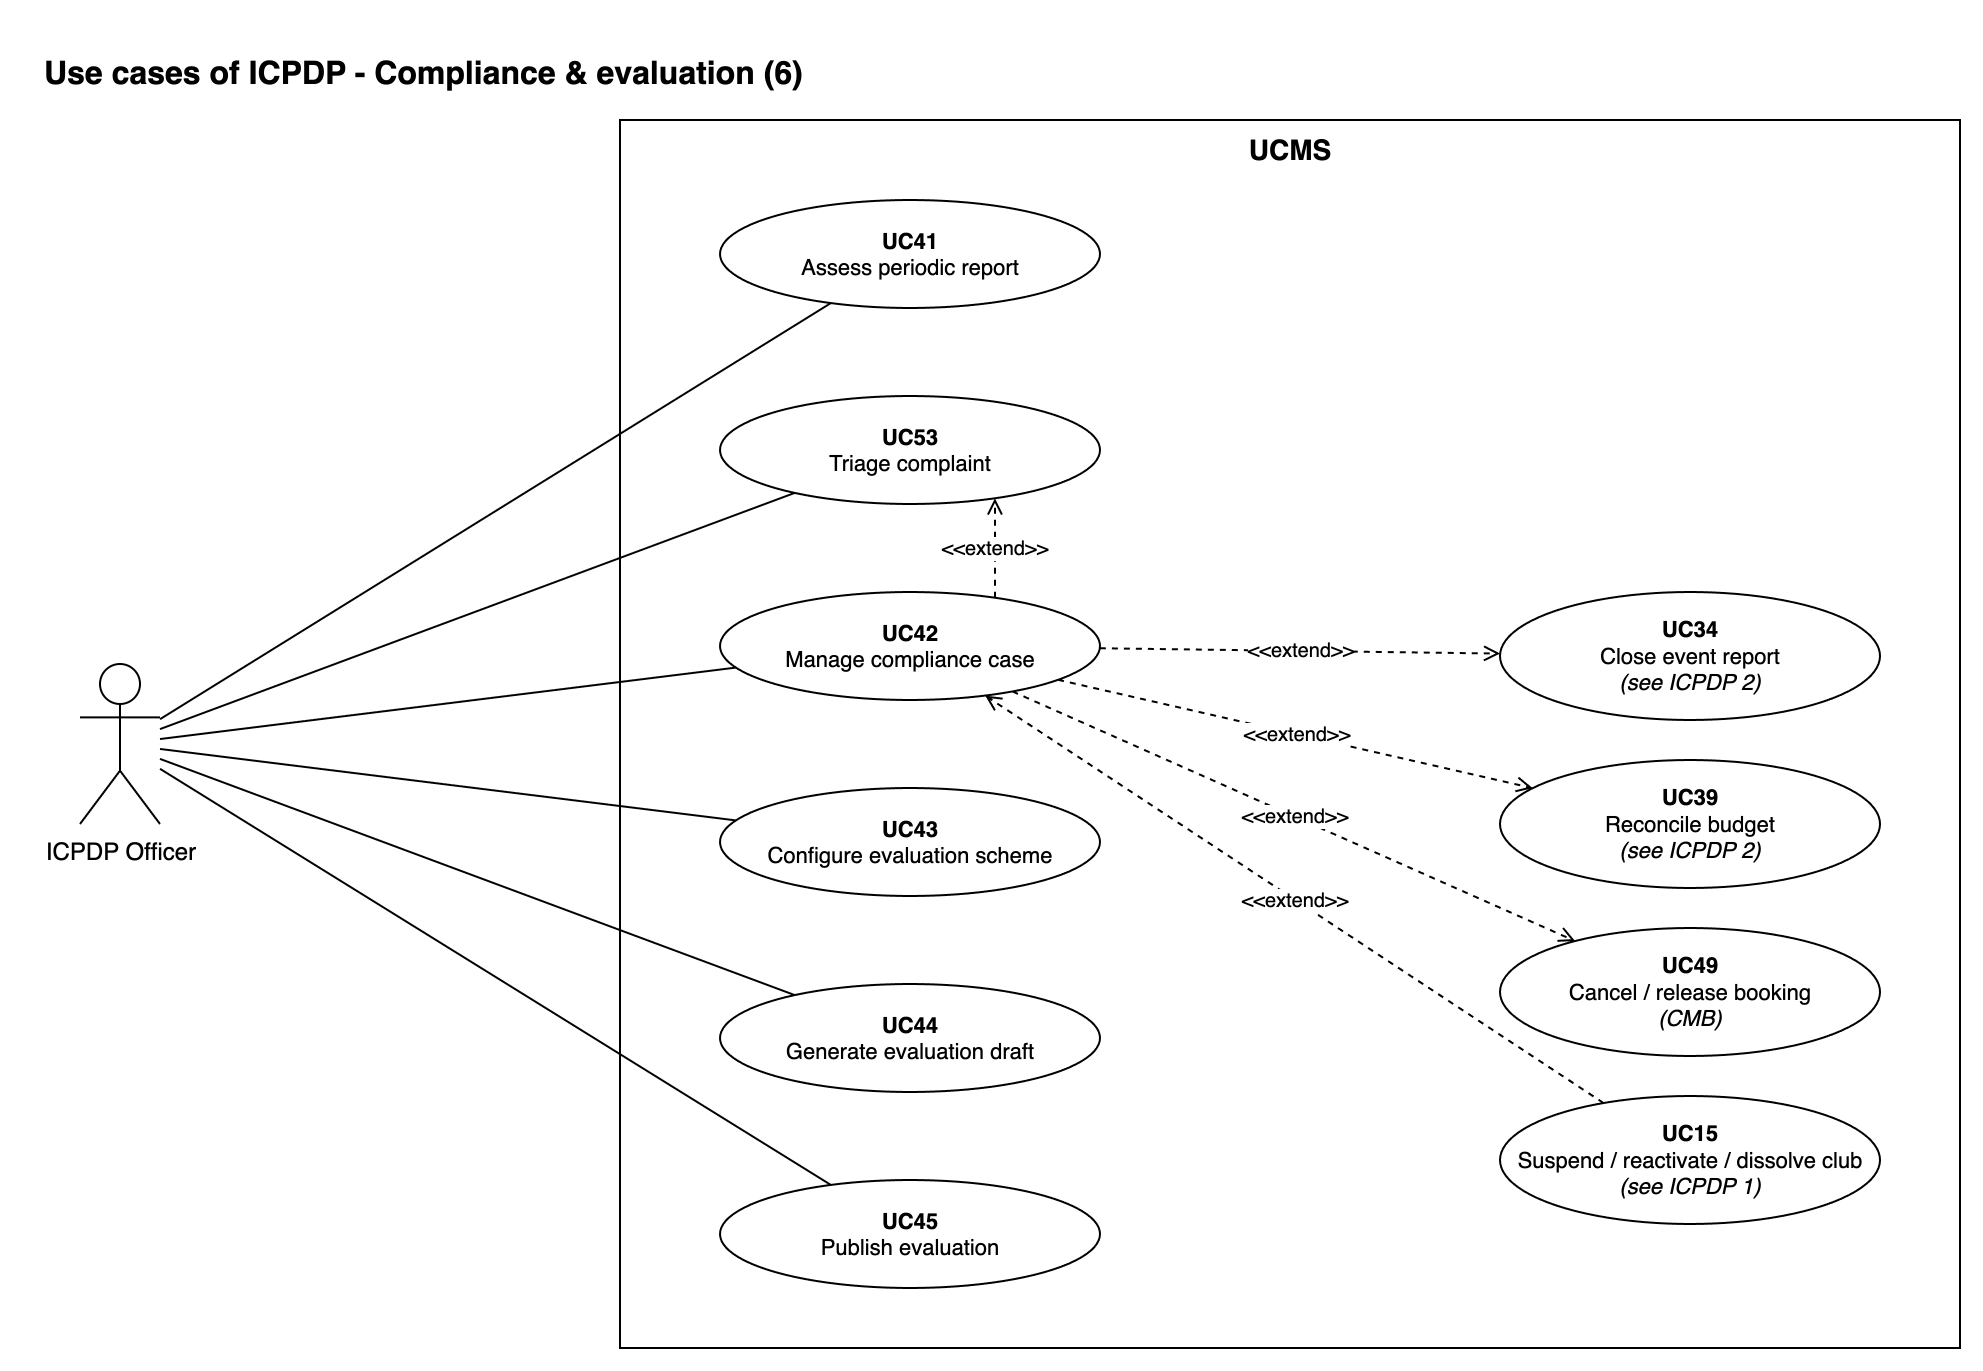
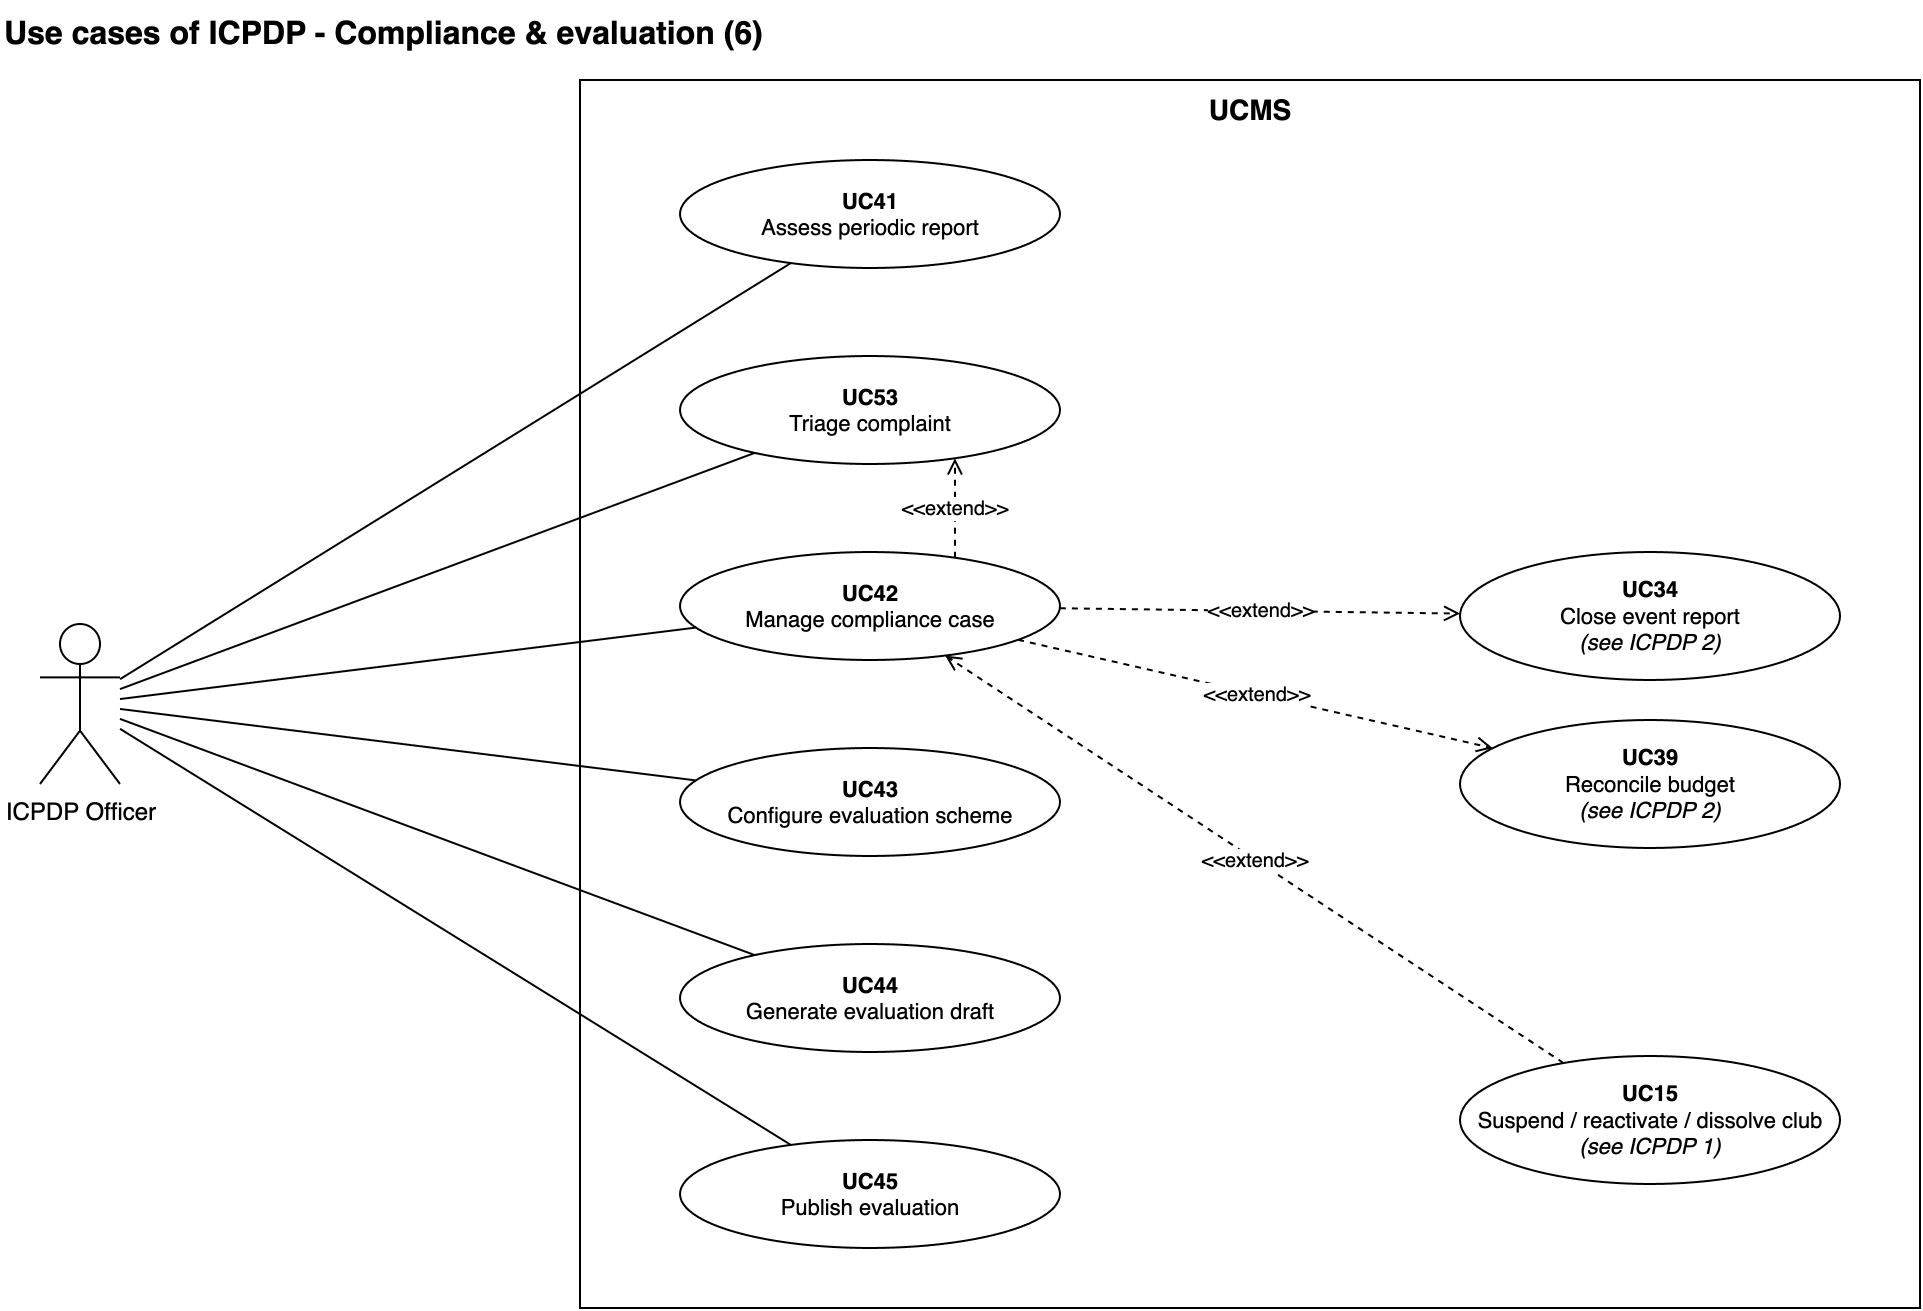
docs(diagrams): drop «extend» used for UI navigation and system cascades (I27, I28)
- Student page: remove the six «extend» edges into UC06 and UC24; they
  modelled screen navigation, not behaviour inserted at an extension point.
- CMB 3, ICPDP 1, ICPDP 3: remove UC28/UC49 «extend» UC15 and UC42
  «extend» UC49 with their borrowed nodes; these are system cascades and
  asynchronous signals, now stated in the UC15 postconditions.
- Spec UC24 step 3 marks the links as navigation only.
- Review tracker: add I27 and I28, mark the I09 and I12 fixes as reverted.

diff --git a/docs/UCMS_Review_Issues.md b/docs/UCMS_Review_Issues.md
@@ -34,10 +34,10 @@ Ngày review: 2026-09-23.
 | I06 | 🔴 | Trạng thái sau khi resubmit không khớp precondition của UC duyệt | Spec UC07/08, UC25/26, UC35/36, UC47/48; Model §10 | Đã sửa | Nộp lại tạo phiên bản mới và quay về trạng thái chờ duyệt (`Submitted` / `Pending Approval` / `Requested`) |
 | I07 | 🔴 | Spec dùng các trạng thái không có trong lifecycle | Spec UC08, UC17, UC26, UC36, UC39, UC52; Model §10 | Đã sửa | Thêm `Withdrawn`, `Expired`, `Exception` vào Model §10; "closed" trong Spec đổi thành `Cancelled`; cập nhật state diagram |
 | I08 | 🔴 | BR40 (số người phản hồi tối thiểu) có trong UC04 của Spec, không có trong Model | Spec UC04, Model UC04 | Đã sửa | Thêm BR40 vào Model UC04 cho khớp Spec; D3 chỉ còn là giá trị mặc định |
-| I09 | 🟡 | `UC15 «include» UC28/UC49` sai: chỉ xảy ra có điều kiện, lại khác actor | UCD ICPDP 1, CMB 3 | Đã sửa | Đổi thành `UC28 «extend» UC15` và `UC49 «extend» UC15` |
+| I09 | 🟡 | `UC15 «include» UC28/UC49` sai: chỉ xảy ra có điều kiện, lại khác actor | UCD ICPDP 1, CMB 3 | Đã sửa | ~~Đổi thành `UC28 «extend» UC15` và `UC49 «extend» UC15`~~ (huỷ ở I28: bỏ hẳn cạnh) |
 | I10 | 🟡 | `UC30 «extend» UC29` sai: waitlist đã nằm trong UC29 A1 | UCD Student, CMB 3 | Đã sửa | Bỏ `UC30 «extend» UC29` và node mượn; UC30 chuyển sang Phase 1 |
 | I11 | 🟡 | `UC02 «include» UC01` sai hướng: đăng nhập là điều kiện trước | UCD All users | Đã sửa | Bỏ `UC02 «include» UC01`; UC01 là precondition của UC02 |
-| I12 | 🟡 | Thiếu quan hệ UC24 → UC29 / UC31 / UC50 | UCD Student | Đã sửa | Thêm `UC29 / UC31 / UC50 «extend» UC24`; Model UC24 Related thêm UC22 |
+| I12 | 🟡 | Thiếu quan hệ UC24 → UC29 / UC31 / UC50 | UCD Student | Đã sửa | ~~Thêm `UC29 / UC31 / UC50 «extend» UC24`~~ (huỷ ở I27); Model UC24 Related thêm UC22 |
 | I13 | 🟡 | Tên rút gọn làm mất nghĩa (UC15 thiếu "reactivate", UC49 thiếu "cancel") | UCD | Đã sửa | "Suspend / reactivate / dissolve club", "Cancel / release booking" |
 | I14 | 🟡 | Không phân biệt UC Phase 1 và Phase 2 | UCD | Không sửa | Đã bỏ chia phase; UCD không đánh dấu phase là đúng. Phần dọn phase còn lại thuộc I26 |
 | I15 | 🟡 | Thiếu luồng dữ liệu ICPDP → hệ thống (chỉ vẽ 3) | CD | Đã sửa | Vẽ lại CD v2: ICPDP → HT có 8 luồng gộp, phủ UC03–05, 08, 11, 13, 15, 26, 34, 36, 37, 39, 41–43, 45, 46, 48, 53 |
@@ -52,6 +52,8 @@ Ngày review: 2026-09-23.
 | I24 | 🟢 | Model §10.5 thiếu chuyển trạng thái khi UC34 trả báo cáo để sửa | Model §10.5, Spec UC34 | Đã sửa | Thêm `Report Submitted → Completed` (UC34); Spec UC34 ghi rõ event về `Completed` |
 | I25 | 🟡 | Trạng thái membership `Ended` gộp chung tự rời và bị loại; `On Leave` trùng nghĩa `Inactive` | Model UC21, Spec UC21/UC22, sơ đồ trạng thái Membership | Đã sửa | Đổi thành `Active` ⇄ `Inactive` → `Left` (UC22 được chấp nhận) / `Banned` (CMB buộc rời); BR46 chặn `Banned` quay lại; UC21 A2 thành đăng ký lại thành viên mỗi kỳ |
 | I26 | 🟡 | Khung Phase 1/2 lỗi thời: mọi UC ra cùng lúc nhưng tài liệu vẫn chia phase và dựa vào đó để hoãn hành vi | Model §4–§8, §10.7–10.11, BR16/BR42/BR43, §12, §13, D2; Spec phần đầu, bảng UC, UC04/UC08/UC26/UC36/UC37/UC49, cuối Spec | Đã sửa | Xóa mọi nhãn Phase; giữ duyệt đa cấp qua UC05 (BR16 có hiệu lực); BR43 rút lại; §12 thành Release scope; §13 coverage đầy đủ |
+| I27 | 🟡 | `«extend»` trên trang Student vẽ điều hướng giao diện (UC17/UC29 → UC06; UC22/UC29/UC31/UC50 → UC24) | UCD Student, Spec UC24 | Đã sửa | Xoá 6 cạnh «extend»; Student chỉ còn association tới 9 UC; Spec UC24 bước 3 ghi rõ là điều hướng; huỷ cách sửa của I12 |
+| I28 | 🟡 | `«extend»` vẽ cascade hệ thống: `UC28 / UC49 → UC15`, `UC42 → UC49`; UC của ICPDP mượn sang trang CMB 3 | UCD CMB 3, ICPDP 1, ICPDP 3; Spec UC15 | Đã sửa | Xoá 3 loại cạnh và các node mượn; cascade ghi ở Postconditions UC15 (Spec UC28 A1, UC49 A1 đã có); giữ `UC47 «extend» UC25`, `UC49 «extend» UC28` |
 
 ---
 
@@ -311,6 +313,8 @@ Ngày review: 2026-09-23.
   - Lý do: sau I04/I05, UC15 gọi UC28 (A1) và UC49 có điều kiện — khi đình chỉ, hoặc khi giải
     thể mà còn việc kết thúc sau kỳ `Dissolving` (BR45). «extend» diễn đạt đúng "chỉ khi có điều
     kiện" và giữ quan hệ hiển thị trên sơ đồ, thay vì bỏ hẳn như đề xuất ban đầu.
+  - **Huỷ (2026-09-24, I28):** cascade do hệ thống thực hiện, không phải hành vi chèn vào luồng
+    của ICPDP trong UC15 → bỏ hẳn cạnh, đúng như đề xuất ban đầu.
 
 ### I10 — `UC30 «extend» UC29`
 - **Vấn đề:** trạng thái `Waitlisted` được tạo ngay trong UC29 A1. UC30 là phiên làm việc riêng
@@ -368,6 +372,8 @@ Ngày review: 2026-09-23.
   - Lý do: chọn cách thêm «extend» cho đồng nhất với cách trang Student đã vẽ UC06 (`UC17`,
     `UC29 «extend» UC06` cho bước "continue into"). Mỗi UC đích vẫn giữ association riêng với
     Student vì chúng cũng chạy độc lập (UC29 từ UC06, UC31 bằng QR tại sự kiện).
+  - **Huỷ một phần (2026-09-24, I27):** phần UCD của cách sửa này sai — «extend» không dùng cho
+    điều hướng giao diện. Đã xoá các cạnh; phần Model UC24 Related vẫn giữ.
 
 ### I13 — Tên rút gọn làm mất nghĩa
 - **Vấn đề:** "UC15 Suspend / dissolve club" thiếu **reactivate** (Model: suspend, reactivate
@@ -615,3 +621,62 @@ Ngày review: 2026-09-23.
     câu hỏi mở vì không phụ thuộc phase.
   - Chưa sửa: `UCMS_Business_System_Analysis*.md` (tài liệu v1, giữ nguyên);
     `UCMS_UseCase_Specifications_v2.docx` cần xuất lại từ `.md`.
+
+### I27 — «extend» dùng cho điều hướng giao diện ở trang Student
+- **Vấn đề:** trang Student có 6 cạnh `«extend»`: `UC17 / UC29 → UC06` và
+  `UC22 / UC29 / UC31 / UC50 → UC24`. Chúng mô tả "từ màn hình A bấm sang chức năng B" (UI flow),
+  không phải hành vi tùy chọn chèn vào UC gốc tại một extension point:
+  - UC06 và UC24 là màn hình xem, không có điểm mở rộng hay điều kiện chèn nào;
+  - UC29 extend hai UC gốc khác nhau — dấu hiệu vẽ theo màn hình vào;
+  - cả 6 UC đích đều có association trực tiếp với Student, tức là UC độc lập;
+  - các cạnh đi vòng làm sơ đồ rối.
+- **Cách sửa đề xuất:** xoá toàn bộ 6 cạnh; Student nối thẳng tới từng UC. Điều hướng ghi trong
+  Spec hoặc sơ đồ UI flow, không ở UCD.
+- **Xử lý:**
+  - Ngày: 2026-09-24
+  - File đã sửa: `diagrams/UCMS_UseCase_ByActor.drawio` — trang Student;
+    `diagrams/img/UCMS_UseCase_ByActor_02_Student.png`; `UCMS_UseCase_Specification_v2.md` — UC24.
+  - Thay đổi:
+    - UCD: xoá `p1e10`–`p1e15`. Trước: 6 cạnh «extend». Sau: chỉ còn 9 association Student → UC.
+    - Spec UC24 bước 3: "The student continues into UC29 … or UC22" → ghi rõ đó là liên kết điều
+      hướng, mỗi UC đích là UC độc lập, không phải «extend» của UC24.
+    - I12: đánh dấu phần UCD bị huỷ.
+  - Lý do: «extend» chỉ dành cho hành vi có điều kiện chèn vào luồng UC gốc. Các trang CMB/ICPDP
+    giữ nguyên vì cạnh ở đó đúng nghĩa này (vd. `UC47 «extend» UC25` khi sự kiện cần địa điểm,
+    `UC42 «extend» UC53` khi khiếu nại cần mở case).
+  - Chưa sửa: `UCMS_UseCase_Specifications_v2.docx` cần xuất lại từ `.md`.
+
+### I28 — «extend» dùng cho cascade hệ thống ở trang CMB 3, ICPDP 1, ICPDP 3
+- **Vấn đề (review lần 2):**
+  1. `UC28 «extend» UC15`, `UC49 «extend» UC15`: khi ICPDP đình chỉ/giải thể club, hệ thống tự
+     huỷ event và booking (Spec UC15 bước 3, UC28 A1 "without a CMB step", UC49 A1). Đó là hệ
+     quả nghiệp vụ (cascade), không phải hành vi mà actor của UC15 thực hiện tại một extension
+     point; UC28/UC49 lại là UC của CMB.
+  2. `UC42 «extend» UC49`: UC49 E2 chỉ ghi một *compliance signal*; case được ICPDP mở sau, ở UC42.
+     Không có gì chèn vào luồng UC49.
+  3. Trang CMB 3 mượn UC15, UC42 của ICPDP chỉ để nối các cạnh trên; trang ICPDP 1 mượn
+     UC28/UC49, ICPDP 3 mượn UC49 của CMB.
+  - Review còn cho rằng chiều mũi tên `UC28 → UC15` bị ngược. **Không đúng:** cạnh đi từ UC mở
+    rộng (UC28) về UC gốc (UC15) là đúng chiều; lỗi nằm ở việc dùng «extend», không ở chiều.
+  - Review đề nghị bỏ cả `UC47 «extend» UC25` vì UC47 có association trực tiếp với CMB. **Không
+    sửa:** Spec UC25 bước 4 "optionally attaches a property booking request (UC47)" và UC47 A2 là
+    đúng mẫu «extend» (tùy chọn, chèn tại một bước của UC gốc, cùng actor); UC47 vẫn chạy độc
+    lập cho hoạt động không gắn event nên giữ association. Khác I27: ở đó UC gốc (UC06, UC24) là
+    màn hình xem, không có bước nào để chèn.
+- **Cách sửa đề xuất:** xoá cạnh ở (1), (2) và các node mượn; mô tả cascade trong Spec.
+- **Xử lý:**
+  - Ngày: 2026-09-24
+  - File đã sửa: `diagrams/UCMS_UseCase_ByActor.drawio` — trang CMB 3, ICPDP 1, ICPDP 3;
+    PNG tương ứng trong `diagrams/img/`; `UCMS_UseCase_Specification_v2.md` — UC15.
+  - Thay đổi:
+    - CMB 3: xoá `p4e7` (UC28→UC15), `p4e8` (UC49→UC15), `p4e12` (UC42→UC49) và node mượn
+      `p4UC15`, `p4UC42`. Còn `UC47 «extend» UC25`, `UC49 «extend» UC28`.
+    - ICPDP 1: xoá `p6e8`, `p6e9` và node mượn `p6UC28`, `p6UC49`. Còn `UC15 «extend» UC42`.
+    - ICPDP 3: xoá `p8e9` (UC42→UC49) và node mượn `p8UC49`. Còn UC42 extend UC53/UC34/UC39 và
+      `UC15 «extend» UC42` — cùng actor ICPDP, mở case/ra quyết định ngay trong luồng khi có vi phạm.
+    - Spec UC15 Postconditions: thêm câu event/booking bị huỷ là cascade của hệ thống (UC28 A1,
+      UC49 A1).
+    - I09: đánh dấu cách sửa bị huỷ.
+  - Lý do: UCD chỉ giữ quan hệ mà actor thực sự đi qua; cascade và tín hiệu bất đồng bộ thuộc về
+    Spec (Postconditions, Alternative Flows) hoặc sơ đồ activity/state.
+  - Chưa sửa: `UCMS_UseCase_Specifications_v2.docx` cần xuất lại từ `.md`.

diff --git a/docs/UCMS_UseCase_Specification_v2.md b/docs/UCMS_UseCase_Specification_v2.md
@@ -549,7 +549,9 @@ pain point of its own). All use cases ship in one release — see model §12.
   - **E1** dissolution is decided while a budget is unreconciled → the officer is warned; the
     reconciliation is due before the end of the `Dissolving` semester (step 6).
 - **Postconditions:** The club is `Suspended` or `Active`, or carries a dissolution effective next
-  semester and ends `Dissolved` after step 6; the reason and the actor are stored.
+  semester and ends `Dissolved` after step 6; the reason and the actor are stored. On a
+  suspension or dissolution, the events and bookings step 3 names are `Cancelled` and their slots
+  freed — a system cascade (UC28 A1, UC49 A1), not a step the officer performs in UC28 or UC49.
 - **Business Rules:** BR09, BR10, BR34 — a `Suspended` club opens no campaign, submits no event
   proposal and receives no new booking. BR44, BR45 — no event or booking outlives the
   `Dissolving` semester.
@@ -805,8 +807,9 @@ pain point of its own). All use cases ship in one release — see model §12.
   2. The system shows: the membership record and position; the club roster and board; the club's
      upcoming events with the student's registration state; their attendance history; their
      outstanding obligations — feedback not yet submitted, a pending withdrawal.
-  3. The student continues into UC29 (register), UC31 (check in), UC50 (feedback) or UC22
-     (leave).
+  3. The screen links to UC29 (register), UC31 (check in), UC50 (feedback) and UC22 (leave).
+     These are UI navigation only: each is a standalone use case of the Student, not an
+     «extend» of UC24.
 - **Alternative Flows:**
   - **A1 Several clubs:** the student switches between the clubs they belong to.
 - **Exceptions:** **E1** the membership ends → access drops back to the public view of UC06.
